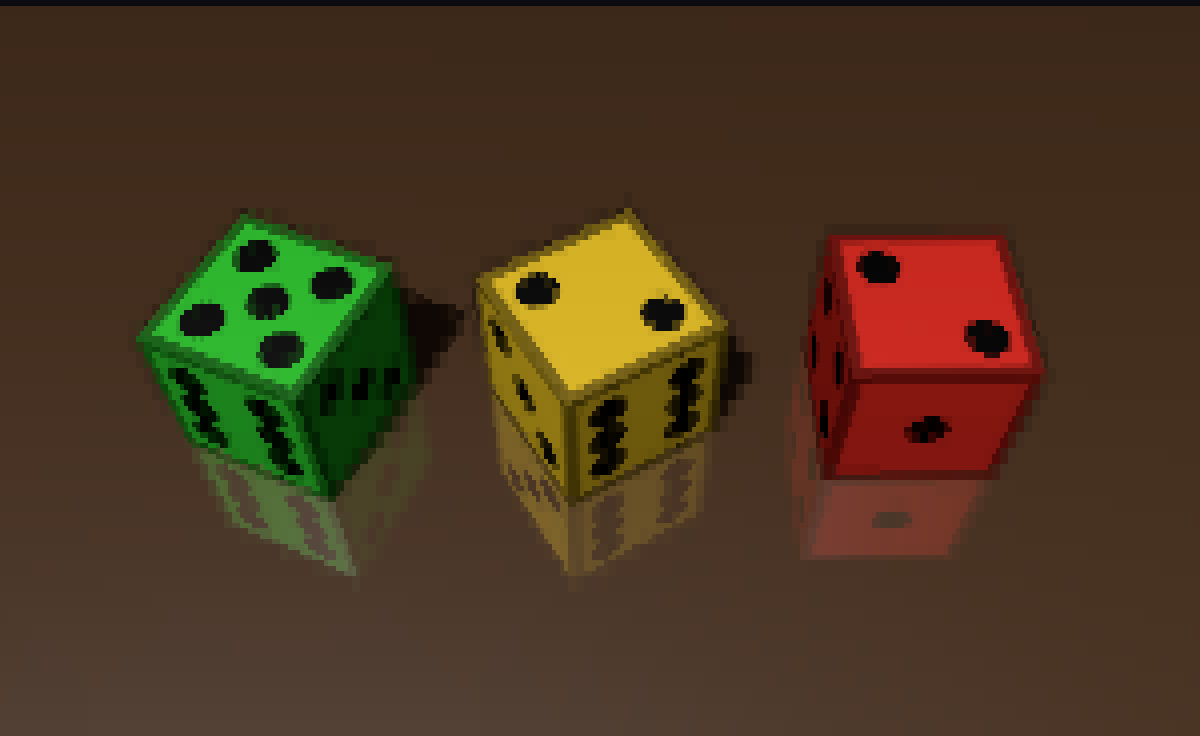
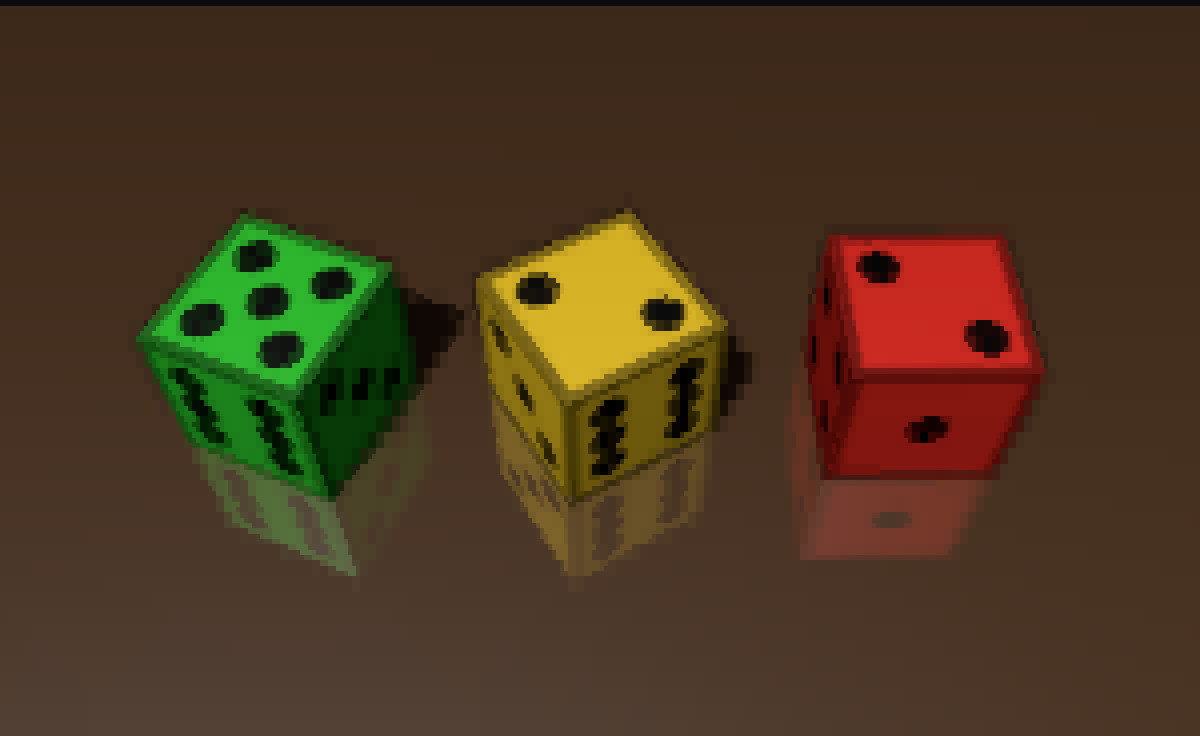
Release 0.6.0
Loading models: Wavefront OBJ files with their MTL materials and textures
(load_model, Model), authored normals, images through Pillow (now a
dependency); textures that repeat, and a mip level for each pixel, so floors
are crisp close by and smooth at the horizon; fog no longer lets a sky box's
stars show through walls. See the previous commit. The article's figures are
redrawn.

diff --git a/unicode3d/__init__.py b/unicode3d/__init__.py
@@ -6,7 +6,7 @@ Draws with Unicode block characters in 24-bit, 256 or 16 colours, whatever the
 terminal supports, with an ASCII fallback; runs in Windows Terminal and Unix
 terminals alike. Ported in spirit from https://github.com/ShakedAp/ASCII-renderer.
 """
-__version__ = "0.5.0"
+__version__ = "0.6.0"
 
 from .animation import Animation, RotationTrack, Track
 from .background import Fog, Gradient, Sky, SkyBox

diff --git a/README.md b/README.md
@@ -41,7 +41,7 @@ Python 3.10 or later; numpy, Numba and Pillow (for loading images) come with it.
 in `requirements.txt`:
 
 ```text
-unicode3d @ git+https://github.com/arp-Trosh/unicode3d@v0.5.0
+unicode3d @ git+https://github.com/arp-Trosh/unicode3d@v0.6.0
 ```
 
 To work on the engine and a game together, install your local copy of the engine in the game's
@@ -960,7 +960,7 @@ Releases are git tags (`v0.1.0`, ...) following [semantic versioning](https://se
 release (`0.1.1`) fixes bugs, a minor release (`0.2.0`) adds features, and before 1.0 a minor release
 may also change the API. `unicode3d.__version__` holds the version. The `main` branch can be ahead
 of the latest tag; pin a tag in a game. To release: bump `__version__` in `unicode3d/__init__.py`,
-commit, then tag it and push the tag (`git tag v0.5.0 && git push --tags`).
+commit, then tag it and push the tag (`git tag v0.6.0 && git push --tags`).
 
 </details>
 
